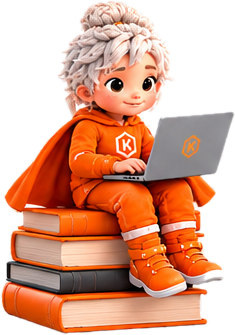
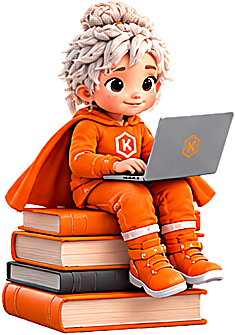
feat(etablissements): hero pleine largeur, boutons alignés, section problème retirée
- Le titre passe désormais au-dessus du visuel, sur toute la largeur du hero
- Les deux boutons du hero restent côte à côte sur desktop (ne wrappent plus)
- Légère netteté ajoutée à la mascotte (unsharp mask)
- Retire la section « Le problème » (avant/après) devenue redondante

diff --git a/index.html b/index.html
@@ -337,9 +337,9 @@ ul,ol{list-style-position:inside}
   .hero-btns .home-hero-secondary{width:100%;padding:12px;font-size:15px;border-radius:14px;text-align:center;background:none;border:1.5px solid var(--border);color:var(--txt);font-weight:600;cursor:pointer;font-family:inherit}
   /* ── Etablissement mobile ── */
   .etab-wrap{padding:0 16px 60px!important}
-  .etab-hero{padding:32px 0 28px!important}
+  .etab-hero{padding:32px 0 28px!important;text-align:center!important}
   .etab-hero-grid{grid-template-columns:1fr!important;text-align:center!important}
-  .etab-hero h1{font-size:24px!important;line-height:1.15!important}
+  .etab-hero h1{font-size:24px!important;line-height:1.15!important;max-width:none!important}
   .etab-hero p{font-size:15px!important;margin-bottom:20px!important;margin-left:auto!important;margin-right:auto!important}
   .etab-hero-btns{flex-direction:column!important;gap:10px!important;justify-content:center!important}
   .etab-hero-btns button{width:100%!important;padding:14px 20px!important;font-size:15px!important}
@@ -347,8 +347,6 @@ ul,ol{list-style-position:inside}
   .etab-hero-visual img{height:160px!important}
   .etab-levels{margin-bottom:40px!important}
   .etab-levels-grid{grid-template-columns:1fr!important;gap:10px!important}
-  .etab-problem{grid-template-columns:1fr!important;gap:20px!important;margin-bottom:44px!important}
-  .etab-avant-apres{font-family:inherit!important;font-size:14px!important;padding:20px!important}
   .etab-section-mb{margin-bottom:44px!important}
   .etab-features-grid{grid-template-columns:1fr!important;gap:10px!important}
   .etab-parcours-card{grid-template-columns:1fr!important;gap:0!important;padding:24px 18px!important;margin-bottom:36px!important}
@@ -10024,20 +10022,6 @@ const app={
       [ICONS.bookOpen,'Secondaire',"Le socle de la frappe au clavier pour aborder sereinement les évaluations et les travaux plus longs."],
       [ICONS.school,'Supérieur',"De la prise de notes en amphi aux mémoires : une frappe rapide et fiable pour tout le cursus."],
     ];
-    const avantItems=[
-      ['✕',"frappe à 2 index, regard sur le clavier"],
-      ['✕',"rédactions bâclées par manque de temps"],
-      ['✕',"fatigue cognitive liée à l'effort de frappe"],
-      ['✕',"aucun suivi possible pour l'enseignant"],
-      ['✕',"TBI et logiciels lourds à installer"],
-    ];
-    const apresItems=[
-      ['✓',"frappe à 10 doigts, regard sur l'écran"],
-      ['✓',"rédactions plus longues et mieux construites"],
-      ['✓',"toute l'énergie cognitive pour le fond"],
-      ['✓',"tableau de bord élève par élève en temps réel"],
-      ['✓',"100% web, aucune installation, aucun IT"],
-    ];
     const features=[
       [ICONS.barChart,'Suivi individuel en temps réel',"Vitesse (mots/min), précision, leçons validées, temps d'inactivité : tout est visible d'un coup d'œil pour chaque élève."],
       [ICONS.pencil,'Devoirs assignables en 3 clics',"Leçon du parcours, test de vitesse libre, texte personnalisé ou dictée vocale : choisissez, ciblez, envoyez."],
@@ -10088,23 +10072,23 @@ const app={
   </div>
   <!-- HERO -->
   <div class="etab-hero" style="padding:60px 0 52px">
+    <div style="font-family:'JetBrains Mono',monospace;font-size:12px;letter-spacing:.14em;text-transform:uppercase;color:${A};font-weight:700;margin-bottom:16px">
+      Écoles · Universités · Centres de formation
+    </div>
+    <h1 style="font-family:'Bricolage Grotesque',sans-serif;font-weight:900;font-size:clamp(30px,4.2vw,52px);line-height:1.1;letter-spacing:-.02em;margin:0 0 32px;max-width:920px">
+      La plateforme qui apprend à vos élèves à taper au clavier, <span style="color:${A}">du primaire au supérieur.</span>
+    </h1>
     <div class="etab-hero-grid" style="display:grid;grid-template-columns:1.15fr 0.85fr;gap:32px;align-items:center">
       <div>
-        <div style="font-family:'JetBrains Mono',monospace;font-size:12px;letter-spacing:.14em;text-transform:uppercase;color:${A};font-weight:700;margin-bottom:16px">
-          Écoles · Universités · Centres de formation
-        </div>
-        <h1 style="font-family:'Bricolage Grotesque',sans-serif;font-weight:900;font-size:clamp(30px,3.4vw,46px);line-height:1.15;letter-spacing:-.02em;margin:0 0 20px;max-width:600px">
-          La plateforme qui apprend à vos élèves à taper au clavier, <span style="color:${A}">du primaire au supérieur.</span>
-        </h1>
         <p style="font-size:18px;color:var(--muted);max-width:560px;margin:0 0 20px;line-height:1.6">
           KeyPace est la plateforme de dactylographie pensée pour les établissements francophones : pédagogie progressive, tableau de bord enseignant et devoirs assignables en quelques clics.
         </p>
         <div style="display:inline-flex;align-items:center;gap:8px;background:rgba(255,77,46,.08);border:1px solid rgba(255,77,46,.25);border-radius:999px;padding:8px 16px;font-size:13px;font-weight:700;color:${A};margin-bottom:28px">
           <span style="display:flex">${ICONS.award}</span> Éligible à la subvention MANOLO · Fédération Wallonie-Bruxelles
         </div>
-        <div class="etab-hero-btns" style="display:flex;gap:12px;flex-wrap:wrap">
-          <button onclick="openModal('school-modal')" style="background:${A};color:#fff;border:none;border-radius:14px;padding:16px 32px;font:inherit;font-size:16px;font-weight:800;cursor:pointer;box-shadow:0 8px 24px rgba(255,77,46,.35);transition:transform .15s" onmouseenter="this.style.transform='translateY(-2px)'" onmouseleave="this.style.transform=''">Demander une démo gratuite →</button>
-          <button onclick="go('lessons')" style="background:var(--card);color:var(--txt);border:1.5px solid var(--border);border-radius:14px;padding:16px 28px;font:inherit;font-size:16px;font-weight:700;cursor:pointer;transition:transform .15s" onmouseenter="this.style.transform='translateY(-2px)'" onmouseleave="this.style.transform=''">Tester les cours maintenant</button>
+        <div class="etab-hero-btns" style="display:flex;gap:12px;flex-wrap:nowrap">
+          <button onclick="openModal('school-modal')" style="background:${A};color:#fff;border:none;border-radius:14px;padding:16px 32px;font:inherit;font-size:16px;font-weight:800;cursor:pointer;box-shadow:0 8px 24px rgba(255,77,46,.35);transition:transform .15s;white-space:nowrap" onmouseenter="this.style.transform='translateY(-2px)'" onmouseleave="this.style.transform=''">Demander une démo gratuite →</button>
+          <button onclick="go('lessons')" style="background:var(--card);color:var(--txt);border:1.5px solid var(--border);border-radius:14px;padding:16px 28px;font:inherit;font-size:16px;font-weight:700;cursor:pointer;transition:transform .15s;white-space:nowrap" onmouseenter="this.style.transform='translateY(-2px)'" onmouseleave="this.style.transform=''">Tester les cours maintenant</button>
         </div>
       </div>
       <div class="etab-hero-visual" style="position:relative;display:flex;justify-content:center">
@@ -10122,22 +10106,6 @@ const app={
     </div>
     <div class="etab-levels-grid" style="display:grid;grid-template-columns:repeat(3,1fr);gap:16px">
       ${levels.map(([ic,t,d])=>`<div class="etab-level-card" onclick="openSchoolModal('${t}')"><div class="etab-level-card-icon">${ic}</div><div class="etab-level-card-title">${t}</div><div class="etab-level-card-desc">${d}</div><div class="etab-level-card-link">En savoir plus →</div></div>`).join('')}
-    </div>
-  </div>
-  <!-- PROBLÈME -->
-  <div class="etab-problem etab-section-mb" style="display:grid;grid-template-columns:1fr 1fr;gap:40px;align-items:center;margin-bottom:80px">
-    <div>
-      <div style="font-size:12px;font-weight:700;letter-spacing:.08em;color:${A};margin-bottom:12px">LE PROBLÈME</div>
-      <h2 style="font-family:'Bricolage Grotesque',sans-serif;font-weight:800;font-size:clamp(20px,3vw,32px);line-height:1.15;margin:0 0 18px">Chaque heure de cours perdue à taper lentement ne se rattrape pas</h2>
-      <p style="color:var(--muted);font-size:15px;line-height:1.7;margin:0 0 14px">Un élève qui tape à 15 mots/min met 4× plus de temps à rédiger un devoir. Cette friction invisible plombe la concentration, la qualité des écrits et la confiance en soi.</p>
-      <p style="color:var(--muted);font-size:15px;line-height:1.7;margin:0">La frappe ne s'apprend pas naturellement : elle demande une progression structurée, des exercices répétés et du feedback immédiat. C'est exactement ce que fait KeyPace.</p>
-    </div>
-    <div class="etab-avant-apres" style="background:var(--card);border:1px solid var(--border);border-radius:20px;padding:28px;font-size:14px;line-height:1.8">
-      <div style="color:var(--muted);margin-bottom:14px;font-size:11px;font-weight:700;letter-spacing:.06em">AVANT KEYPACE</div>
-      ${avantItems.map(([ic,t])=>`<div style="display:flex;gap:10px;padding:3px 0"><span>${ic}</span><span style="color:var(--muted)">${t}</span></div>`).join('')}
-      <div style="border-top:1px solid var(--border);margin:14px 0"></div>
-      <div style="color:${A};margin-bottom:14px;font-size:11px;font-weight:700;letter-spacing:.06em">AVEC KEYPACE</div>
-      ${apresItems.map(([ic,t])=>`<div style="display:flex;gap:10px;padding:3px 0"><span>${ic}</span><span>${t}</span></div>`).join('')}
     </div>
   </div>
   <!-- FEATURES PROF -->
